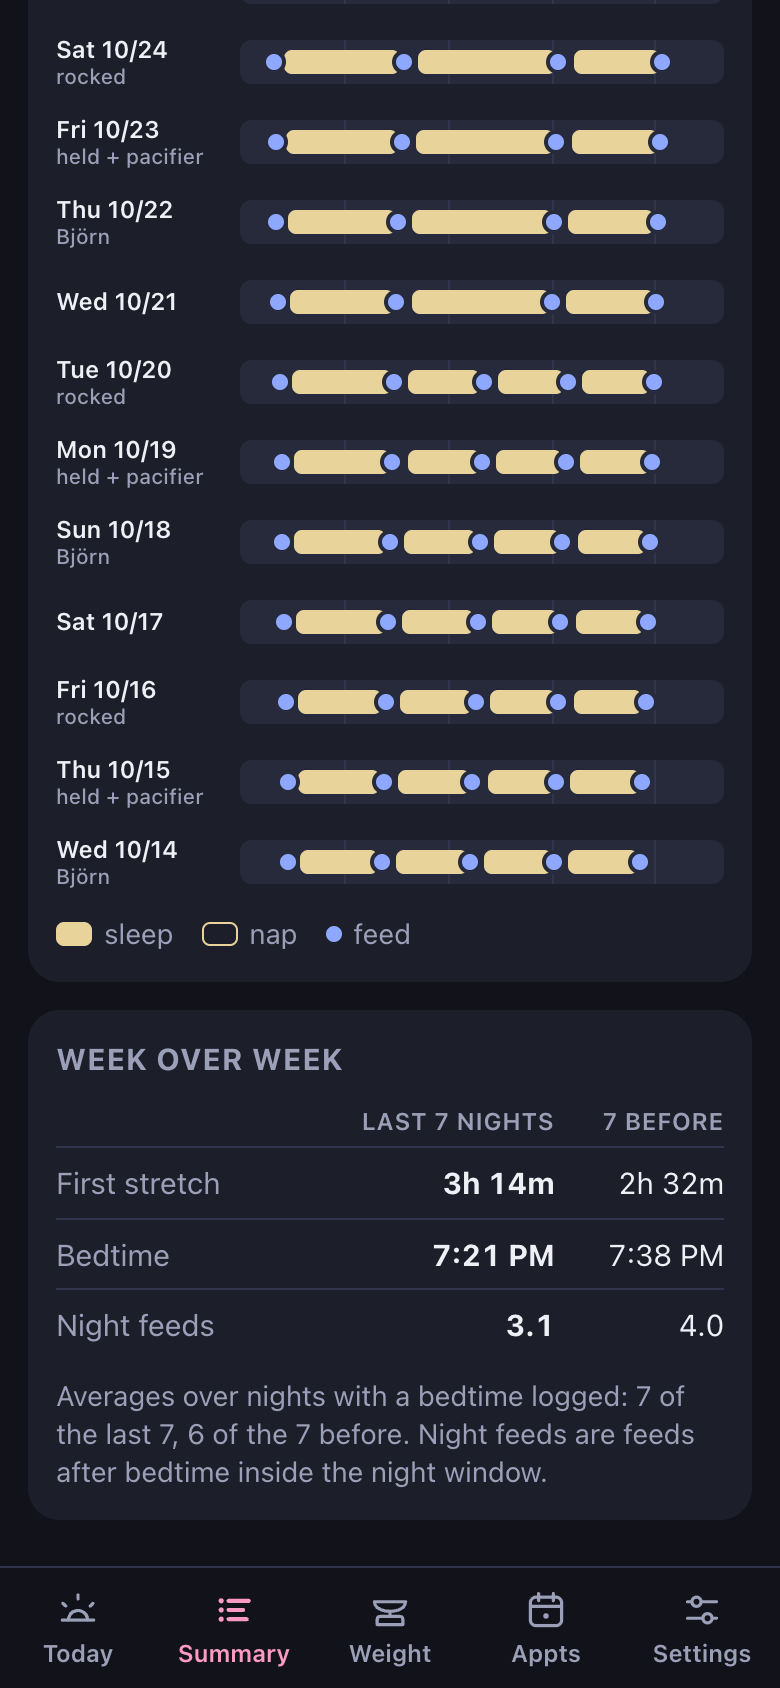
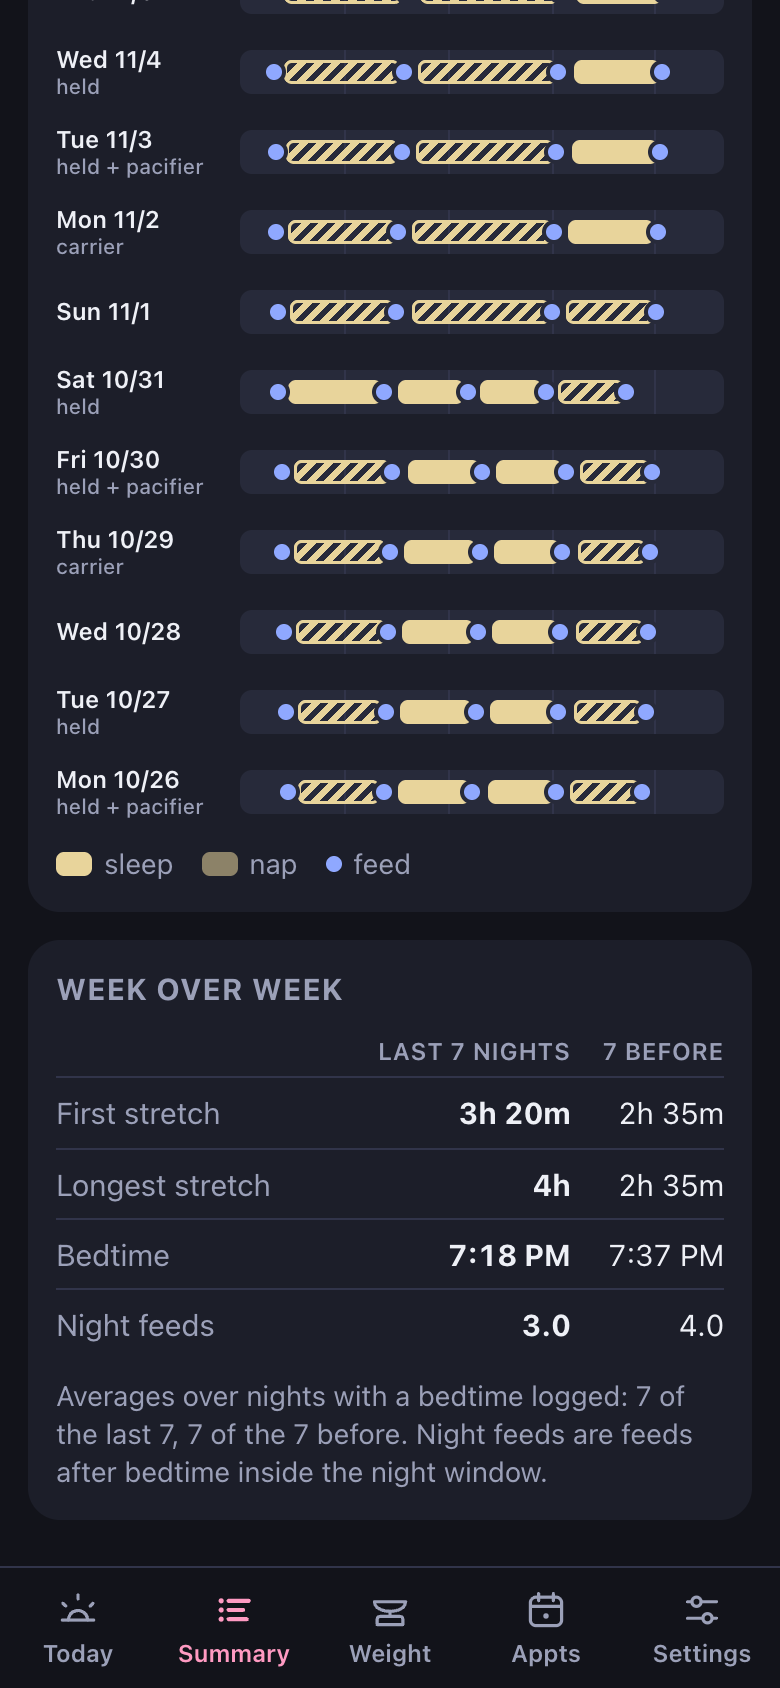
Sleep stats card: yesterday, 7-day average, average bedtime; longest stretch in Summary (Longest column) and the weekly table; release notes 1.26

diff --git a/src/components/SleepDiary.tsx b/src/components/SleepDiary.tsx
@@ -1,9 +1,9 @@
 import { useStore } from '../data/store';
 import { useNow } from '../hooks';
 import { isActive } from '../lib/summary';
-import { fmtDur, fromLocal } from '../lib/time';
+import { dayOf, fmtDur, fromLocal } from '../lib/time';
 import {
-  DEFAULT_NIGHT_SLEEP, placeSegments, currentNight, lastCompletedNight, nightsBack, nightKey, nightStats, sleepsOf, weekSummary, fmtEveningMinutes, loggedNights,
+  DEFAULT_NIGHT_SLEEP, sleepMsOnDay, placeSegments, currentNight, lastCompletedNight, nightsBack, nightKey, sleepsOf, weekSummary, fmtEveningMinutes, loggedNights,
 } from '../lib/sleep';
 import { SLEEP_HOW_LABEL } from '../types';
 
@@ -88,6 +88,7 @@ export function SleepDiary() {
             <thead><tr><th /><th>Last 7 nights</th><th>7 before</th></tr></thead>
             <tbody>
               <tr><td>First stretch</td><td>{thisWeek.firstStretchMs != null ? fmtDur(thisWeek.firstStretchMs) : '—'}</td><td>{before.firstStretchMs != null ? fmtDur(before.firstStretchMs) : '—'}</td></tr>
+              <tr><td>Longest stretch</td><td>{thisWeek.longestMs != null ? fmtDur(thisWeek.longestMs) : '—'}</td><td>{before.longestMs != null ? fmtDur(before.longestMs) : '—'}</td></tr>
               <tr><td>Bedtime</td><td>{thisWeek.bedtimeMin != null ? fmtEveningMinutes(thisWeek.bedtimeMin) : '—'}</td><td>{before.bedtimeMin != null ? fmtEveningMinutes(before.bedtimeMin) : '—'}</td></tr>
               <tr><td>Night feeds</td><td>{thisWeek.nightFeeds != null ? thisWeek.nightFeeds.toFixed(1) : '—'}</td><td>{before.nightFeeds != null ? before.nightFeeds.toFixed(1) : '—'}</td></tr>
             </tbody>
@@ -99,22 +100,21 @@ export function SleepDiary() {
   );
 }
 
-/** Today's trend card: last night's longest stretch, its 7-night average, and the average bedtime. */
+/** Today's sleep stats: total sleep yesterday, the daily average over the last 7 days, and the average bedtime. */
 export function NightsCard({ onOpen }: { onOpen: () => void }) {
   const { entries, settings } = useStore();
   const now = useNow(60_000);
   const win = settings.night_sleep ?? DEFAULT_NIGHT_SLEEP;
-  const last = lastCompletedNight(now, win);
-  const keys = nightsBack(last, 7);
-  const longest = keys.map((k) => nightStats(entries, k, now)).filter((s) => s.bedtime !== null).map((s) => s.longestMs);
-  const lastNight = nightStats(entries, last, now).longestMs;
-  const avg = longest.length ? longest.reduce((a, b) => a + b, 0) / longest.length : 0;
-  const bed = weekSummary(entries, keys, now, win).bedtimeMin;
+  const days = nightsBack(dayOf(now), 8).slice(1); // yesterday and the six days before
+  const totals = days.map((d) => sleepMsOnDay(entries, d, now));
+  const logged = totals.filter((t) => t > 0);
+  const avg = logged.length ? logged.reduce((a, b) => a + b, 0) / logged.length : 0;
+  const bed = weekSummary(entries, nightsBack(lastCompletedNight(now, win), 7), now, win).bedtimeMin;
   return (
     <div className="card compact pressable nights" onClick={onOpen}>
-      <h3>Longest stretch</h3>
-      <div className="kv"><span>Last night</span><b>{lastNight ? fmtDur(lastNight) : '—'}</b></div>
-      <div className="kv"><span>7-night avg</span><b>{avg ? fmtDur(avg) : '—'}</b></div>
+      <h3>Sleep stats</h3>
+      <div className="kv"><span>Yesterday</span><b>{totals[0] ? fmtDur(totals[0]) : '—'}</b></div>
+      <div className="kv"><span>7-day avg</span><b>{avg ? fmtDur(avg) : '—'}</b></div>
       <div className="kv"><span>Avg bedtime</span><b>{bed != null ? fmtEveningMinutes(bed) : '—'}</b></div>
     </div>
   );

diff --git a/docs/release-notes/index.html b/docs/release-notes/index.html
@@ -90,7 +90,7 @@
     <h1>bébé <span>tracker</span></h1>
     <p class="lede">A shared logbook for a newborn's feeds, diapers, pumping and mom's meds. Two phones, one live dataset, built for one-handed use at 3 am. This page follows how it changed over its first ten days.</p>
     <div class="facts">
-      <span><b>63</b> releases</span>
+      <span><b>64</b> releases</span>
       <span><b>58</b> days</span>
       <span><b>5</b> tabs</span>
       <span><b>45</b> automated tests</span>
@@ -551,6 +551,21 @@
         </ul>
         <div class="shots">
           <figure class="phone"><div class="screen"><img src="shots/today.png" alt="Today with the Longest stretch card: last night 4h, 7-night average 4h, average bedtime 7:18 PM, and a night feeds tile." loading="lazy"></div><figcaption><b>Today</b>Last night, the week, bedtime.</figcaption></figure>
+        </div>
+      </div>
+    </article>
+
+    <article class="release">
+      <div class="stamp"><div class="ver">1.26</div><div class="when">Sun Nov 8 · late</div></div>
+      <div class="body">
+        <h2>Sleep stats</h2>
+        <ul class="notes">
+          <li><b>Totals, not stretches, on Today.</b> The card is now Sleep stats: how much she slept yesterday, the daily average over the last seven days, and the average bedtime.</li>
+          <li><b>Longest stretch moved to the details.</b> It's a column in Summary's By day table (renamed from "Night" to "Longest") and a row in the diary's week-over-week table.</li>
+        </ul>
+        <div class="shots">
+          <figure class="phone"><div class="screen"><img src="shots/today.png" alt="Today with the Sleep stats card: yesterday, 7-day average and average bedtime." loading="lazy"></div><figcaption><b>Today</b>Yesterday, the week, bedtime.</figcaption></figure>
+          <figure class="phone"><div class="screen"><img src="shots/summary-diary-compare.png" alt="The diary's week-over-week table with first stretch, longest stretch, bedtime and night feeds." loading="lazy"></div><figcaption><b>Week over week</b>Longest stretch lives here now.</figcaption></figure>
         </div>
       </div>
     </article>

diff --git a/src/lib/sleep.ts b/src/lib/sleep.ts
@@ -136,16 +136,17 @@ export function fmtEveningMinutes(m: number): string {
   return `${hh % 12 || 12}:${String(mm).padStart(2, '0')} ${hh < 12 ? 'AM' : 'PM'}`;
 }
 
-export interface WeekSummary { nights: number; firstStretchMs: number | null; bedtimeMin: number | null; nightFeeds: number | null }
+export interface WeekSummary { nights: number; firstStretchMs: number | null; longestMs: number | null; bedtimeMin: number | null; nightFeeds: number | null }
 
 /** Averages over the given nights, counting only nights that have a logged bedtime. */
 export function weekSummary(entries: Entry[], keys: string[], now: number, window = DEFAULT_NIGHT_SLEEP): WeekSummary {
   const stats = keys.map((k) => nightStats(entries, k, now)).filter((s) => s.bedtime !== null);
-  if (!stats.length) return { nights: 0, firstStretchMs: null, bedtimeMin: null, nightFeeds: null };
+  if (!stats.length) return { nights: 0, firstStretchMs: null, longestMs: null, bedtimeMin: null, nightFeeds: null };
   const avg = (xs: number[]) => xs.reduce((a, b) => a + b, 0) / xs.length;
   return {
     nights: stats.length,
     firstStretchMs: avg(stats.map((s) => s.firstStretchMs)),
+    longestMs: avg(stats.map((s) => s.longestMs)),
     bedtimeMin: avgEveningMinutes(stats.map((s) => s.bedtime!)),
     nightFeeds: avg(stats.map((s) => nightFeeds(entries, s.key, now, window).length)),
   };

diff --git a/src/screens/Summary.tsx b/src/screens/Summary.tsx
@@ -31,7 +31,7 @@ function DaysView() {
         <table className="summary">
           <thead>
             <tr>
-              <th>Day</th><th>Age</th><th>Feeds</th><th>Total {volLabel()}</th><th>Formula {volLabel()}</th><th>BM {volLabel()}</th><th>Pumps</th><th>Pumped {volLabel()}</th>{sleepOn && <><th>Sleep</th><th>Naps</th><th>Night</th><th>Bedtime</th></>}{diapers && <><th>Diapers</th><th>Wet</th><th>Dirty</th><th>Stool</th></>}
+              <th>Day</th><th>Age</th><th>Feeds</th><th>Total {volLabel()}</th><th>Formula {volLabel()}</th><th>BM {volLabel()}</th><th>Pumps</th><th>Pumped {volLabel()}</th>{sleepOn && <><th>Sleep</th><th>Naps</th><th>Longest</th><th>Bedtime</th></>}{diapers && <><th>Diapers</th><th>Wet</th><th>Dirty</th><th>Stool</th></>}
             </tr>
           </thead>
           <tbody>

diff --git a/AGENTS.md b/AGENTS.md
@@ -29,7 +29,7 @@ The repo is public (github.com/esp8879/bebe-tracker). Commit as `esp8879 <695531
 - `npm run deploy` = build + `firebase deploy --only hosting,firestore`
 
 ## Screens
-Tabs: Today · Summary (By day / All entries) · Weight · Appts · Settings. Summary has a third view, Sleep (`src/components/SleepDiary.tsx`): a 14-night diary (6 PM–8 AM rows, bars and feed dots) and a last-7-vs-previous-7 table. Once 3 nights are logged, Today's weight card becomes the `NightsCard` (last night's longest stretch, its 7-night average and the average bedtime; the third tile then shows last night's night feeds instead of repeating the longest stretch), which opens Summary on Sleep via `useNav().setSummaryMode`. Today must fit an iPhone without scrolling (measure at 393x759, an iPhone 15 minus its insets) in every combination of tracked types: feed card, sleep card, pump card, meds card (with sleep on, several med rows fold into one, so four timer rows max; `roomy` spacing at three rows or fewer when diapers aren't also on), Today so far, weight + next appointment side by side, quick-log dock above the tab bar. `settings.today_mode` (`countdown` | `last`) switches the pump and meds cards between countdowns from intervals and last-time-only rows (`recentDoses`, meds dosed in the last 24 hours); `settings.pump_interval_min` is optional. `settings.night_feeds` ({enabled, interval_min, start, end}, household-local HH:MM, may wrap midnight) gives the feed timer a second interval; it is chosen by when the LAST feed started (`isNightAt` in `src/lib/timers.ts`), never by when the next one lands. Today's feed line then reads "Last feed 10:15 PM · night, 4h". `settings.meds_enabled === false` hides the meds card, greys the dock's Meds button (tap shows a toast) and hides the med interval and rotation settings; history and intervals are kept. The dock lists only tracked types, in a fixed order (Feed, Sleep, Diaper, Pump, Meds); while she's asleep Sleep reads "Woke up" and opens the wake-up sheet (fell-asleep and woke-up times, woke-up defaulting to now; "Woke up" saves). With sleep on, diaper counts move from tiles to a line under them. `settings.sleep_enabled === false` hides sleep everywhere but All entries and exports. `settings.diapers_enabled === false` does the same for diapers: hides the diaper tiles on Today and the diaper columns in the Summary table, greys the dock's Diaper button; entries stay in All entries and exports.
+Tabs: Today · Summary (By day / All entries) · Weight · Appts · Settings. Summary has a third view, Sleep (`src/components/SleepDiary.tsx`): a 14-night diary (6 PM–8 AM rows, bars and feed dots) and a last-7-vs-previous-7 table. Once 3 nights are logged, Today's weight card becomes the `NightsCard`, titled Sleep stats (total sleep yesterday, the daily average over the last 7 days with sleep logged, and the average bedtime; the third tile then shows last night's night feeds). Longest stretch lives in the diary's week-over-week table, which opens Summary on Sleep via `useNav().setSummaryMode`. Today must fit an iPhone without scrolling (measure at 393x759, an iPhone 15 minus its insets) in every combination of tracked types: feed card, sleep card, pump card, meds card (with sleep on, several med rows fold into one, so four timer rows max; `roomy` spacing at three rows or fewer when diapers aren't also on), Today so far, weight + next appointment side by side, quick-log dock above the tab bar. `settings.today_mode` (`countdown` | `last`) switches the pump and meds cards between countdowns from intervals and last-time-only rows (`recentDoses`, meds dosed in the last 24 hours); `settings.pump_interval_min` is optional. `settings.night_feeds` ({enabled, interval_min, start, end}, household-local HH:MM, may wrap midnight) gives the feed timer a second interval; it is chosen by when the LAST feed started (`isNightAt` in `src/lib/timers.ts`), never by when the next one lands. Today's feed line then reads "Last feed 10:15 PM · night, 4h". `settings.meds_enabled === false` hides the meds card, greys the dock's Meds button (tap shows a toast) and hides the med interval and rotation settings; history and intervals are kept. The dock lists only tracked types, in a fixed order (Feed, Sleep, Diaper, Pump, Meds); while she's asleep Sleep reads "Woke up" and opens the wake-up sheet (fell-asleep and woke-up times, woke-up defaulting to now; "Woke up" saves). With sleep on, diaper counts move from tiles to a line under them. `settings.sleep_enabled === false` hides sleep everywhere but All entries and exports. `settings.diapers_enabled === false` does the same for diapers: hides the diaper tiles on Today and the diaper columns in the Summary table, greys the dock's Diaper button; entries stay in All entries and exports.
 
 ## Conventions
 - iOS 26 home-screen apps blur a band ~40pt below the status bar (`black-translucent`). Screens start at `env(safe-area-inset-top) + 30px` or more; don't put content higher.

diff --git a/CLAUDE.md b/CLAUDE.md
@@ -29,7 +29,7 @@ The repo is public (github.com/esp8879/bebe-tracker). Commit as `esp8879 <695531
 - `npm run deploy` = build + `firebase deploy --only hosting,firestore`
 
 ## Screens
-Tabs: Today · Summary (By day / All entries) · Weight · Appts · Settings. Summary has a third view, Sleep (`src/components/SleepDiary.tsx`): a 14-night diary (6 PM–8 AM rows, bars and feed dots) and a last-7-vs-previous-7 table. Once 3 nights are logged, Today's weight card becomes the `NightsCard` (last night's longest stretch, its 7-night average and the average bedtime; the third tile then shows last night's night feeds instead of repeating the longest stretch), which opens Summary on Sleep via `useNav().setSummaryMode`. Today must fit an iPhone without scrolling (measure at 393x759, an iPhone 15 minus its insets) in every combination of tracked types: feed card, sleep card, pump card, meds card (with sleep on, several med rows fold into one, so four timer rows max; `roomy` spacing at three rows or fewer when diapers aren't also on), Today so far, weight + next appointment side by side, quick-log dock above the tab bar. `settings.today_mode` (`countdown` | `last`) switches the pump and meds cards between countdowns from intervals and last-time-only rows (`recentDoses`, meds dosed in the last 24 hours); `settings.pump_interval_min` is optional. `settings.night_feeds` ({enabled, interval_min, start, end}, household-local HH:MM, may wrap midnight) gives the feed timer a second interval; it is chosen by when the LAST feed started (`isNightAt` in `src/lib/timers.ts`), never by when the next one lands. Today's feed line then reads "Last feed 10:15 PM · night, 4h". `settings.meds_enabled === false` hides the meds card, greys the dock's Meds button (tap shows a toast) and hides the med interval and rotation settings; history and intervals are kept. The dock lists only tracked types, in a fixed order (Feed, Sleep, Diaper, Pump, Meds); while she's asleep Sleep reads "Woke up" and opens the wake-up sheet (fell-asleep and woke-up times, woke-up defaulting to now; "Woke up" saves). With sleep on, diaper counts move from tiles to a line under them. `settings.sleep_enabled === false` hides sleep everywhere but All entries and exports. `settings.diapers_enabled === false` does the same for diapers: hides the diaper tiles on Today and the diaper columns in the Summary table, greys the dock's Diaper button; entries stay in All entries and exports.
+Tabs: Today · Summary (By day / All entries) · Weight · Appts · Settings. Summary has a third view, Sleep (`src/components/SleepDiary.tsx`): a 14-night diary (6 PM–8 AM rows, bars and feed dots) and a last-7-vs-previous-7 table. Once 3 nights are logged, Today's weight card becomes the `NightsCard`, titled Sleep stats (total sleep yesterday, the daily average over the last 7 days with sleep logged, and the average bedtime; the third tile then shows last night's night feeds). Longest stretch lives in the diary's week-over-week table, which opens Summary on Sleep via `useNav().setSummaryMode`. Today must fit an iPhone without scrolling (measure at 393x759, an iPhone 15 minus its insets) in every combination of tracked types: feed card, sleep card, pump card, meds card (with sleep on, several med rows fold into one, so four timer rows max; `roomy` spacing at three rows or fewer when diapers aren't also on), Today so far, weight + next appointment side by side, quick-log dock above the tab bar. `settings.today_mode` (`countdown` | `last`) switches the pump and meds cards between countdowns from intervals and last-time-only rows (`recentDoses`, meds dosed in the last 24 hours); `settings.pump_interval_min` is optional. `settings.night_feeds` ({enabled, interval_min, start, end}, household-local HH:MM, may wrap midnight) gives the feed timer a second interval; it is chosen by when the LAST feed started (`isNightAt` in `src/lib/timers.ts`), never by when the next one lands. Today's feed line then reads "Last feed 10:15 PM · night, 4h". `settings.meds_enabled === false` hides the meds card, greys the dock's Meds button (tap shows a toast) and hides the med interval and rotation settings; history and intervals are kept. The dock lists only tracked types, in a fixed order (Feed, Sleep, Diaper, Pump, Meds); while she's asleep Sleep reads "Woke up" and opens the wake-up sheet (fell-asleep and woke-up times, woke-up defaulting to now; "Woke up" saves). With sleep on, diaper counts move from tiles to a line under them. `settings.sleep_enabled === false` hides sleep everywhere but All entries and exports. `settings.diapers_enabled === false` does the same for diapers: hides the diaper tiles on Today and the diaper columns in the Summary table, greys the dock's Diaper button; entries stay in All entries and exports.
 
 ## Conventions
 - iOS 26 home-screen apps blur a band ~40pt below the status bar (`black-translucent`). Screens start at `env(safe-area-inset-top) + 30px` or more; don't put content higher.
